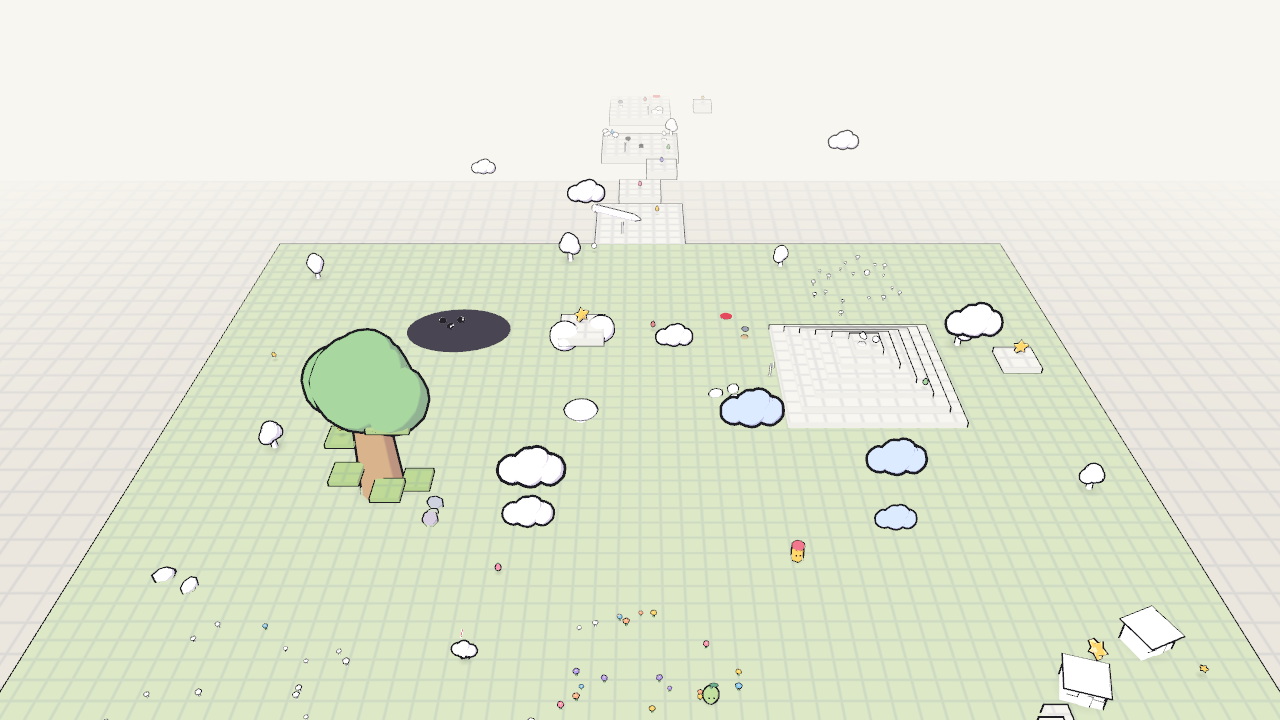
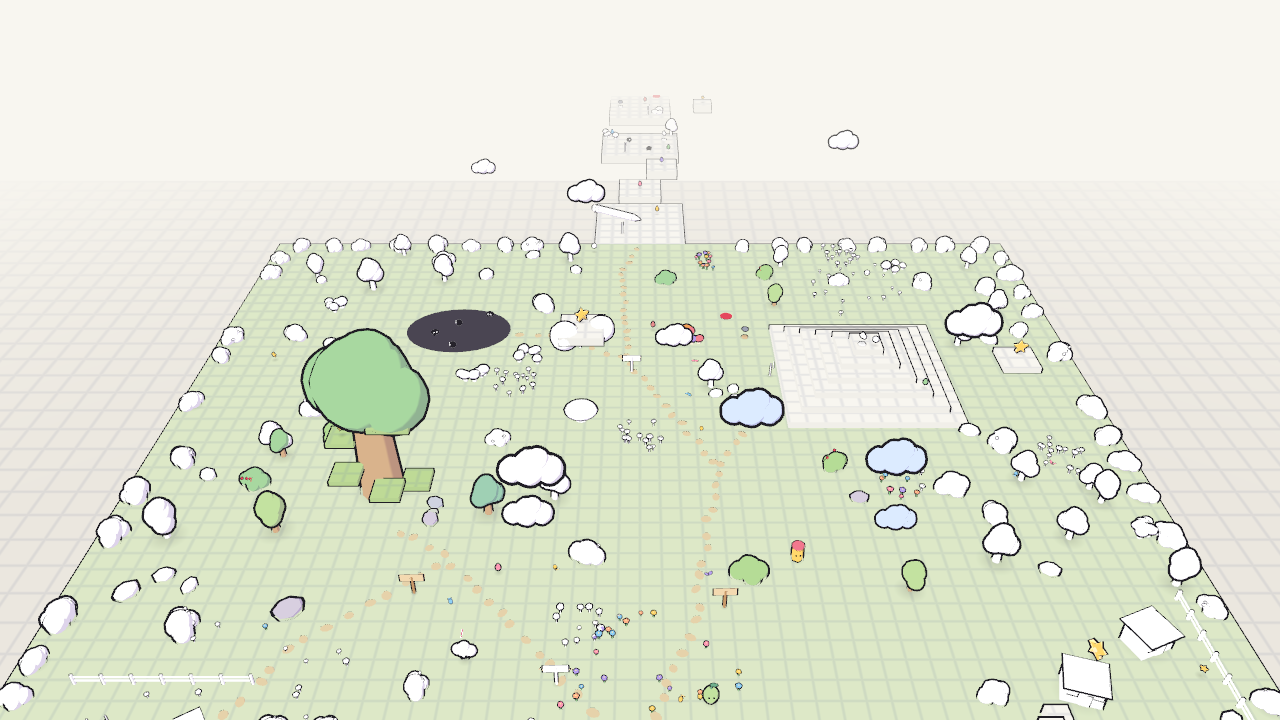
Fill in the open Meadow
Stone paths with signposts from the start to every landmark, a pond with lily
pads and a dock, a picnic, fences, hedges along the edges, groves, bushes,
rocks, mushroom rings, flower beds and butterflies. Props are placed with
keep-out checks so they never cover stars, friends, hoops or paths.

diff --git a/CLAUDE.md b/CLAUDE.md
@@ -80,7 +80,10 @@ Meadow 1 run as the "Ink Trail" off the north edge; 14 drops, 5 stickers,
 Smudgies, checkpoints). Sprint/stamina, double jump,
 big-mouth inhale + gulp, 6 emotes, music + SFX, gamepad. Verified by the autotest, **not yet hand-playtested**.
 
-Next candidates: hand playtest + tuning; the Meadow feels sparse between landmarks (more props, paths, a pond);
+The Meadow is dressed by `_dress_meadow()` (stone paths to each landmark, signposts, pond, picnic, fences,
+edge hedges, groves/bushes/rocks/flower beds placed with `_clear()` keep-outs, butterflies).
+
+Next candidates: hand playtest + tuning;
 camera collision (clips through props); spit bounce; the Village page /
 more chapters; the Eraser; friends moving to the Home Page; decorating it with stickers; a Windows build.
 

diff --git a/docs/game_design.md b/docs/game_design.md
@@ -74,7 +74,9 @@ Start with **Puffy** and **Stone** in the first chapter; add one or two per chap
   things (eat them to carry them back) or set challenges. Later they can move to the Home Page.
 - **Home Page:** your hub page. Decorate with earned stickers, re-dress your mochi in the creator, see friends, open the book.
 
-**The Meadow (built):** a 64 x 60 open page ([overview](world_concept/meadow_open.png)). Its 12 Bloom Stars:
+**The Meadow (built):** a 64 x 60 open page ([overview](world_concept/meadow_open.png)). Stepping-stone paths with
+signposts lead from the start to every landmark; between them are groves, bushes, flower beds, a pond, a picnic,
+fences, hedges along the edges and butterflies. Its 12 Bloom Stars:
 
 | Star | How |
 |---|---|
